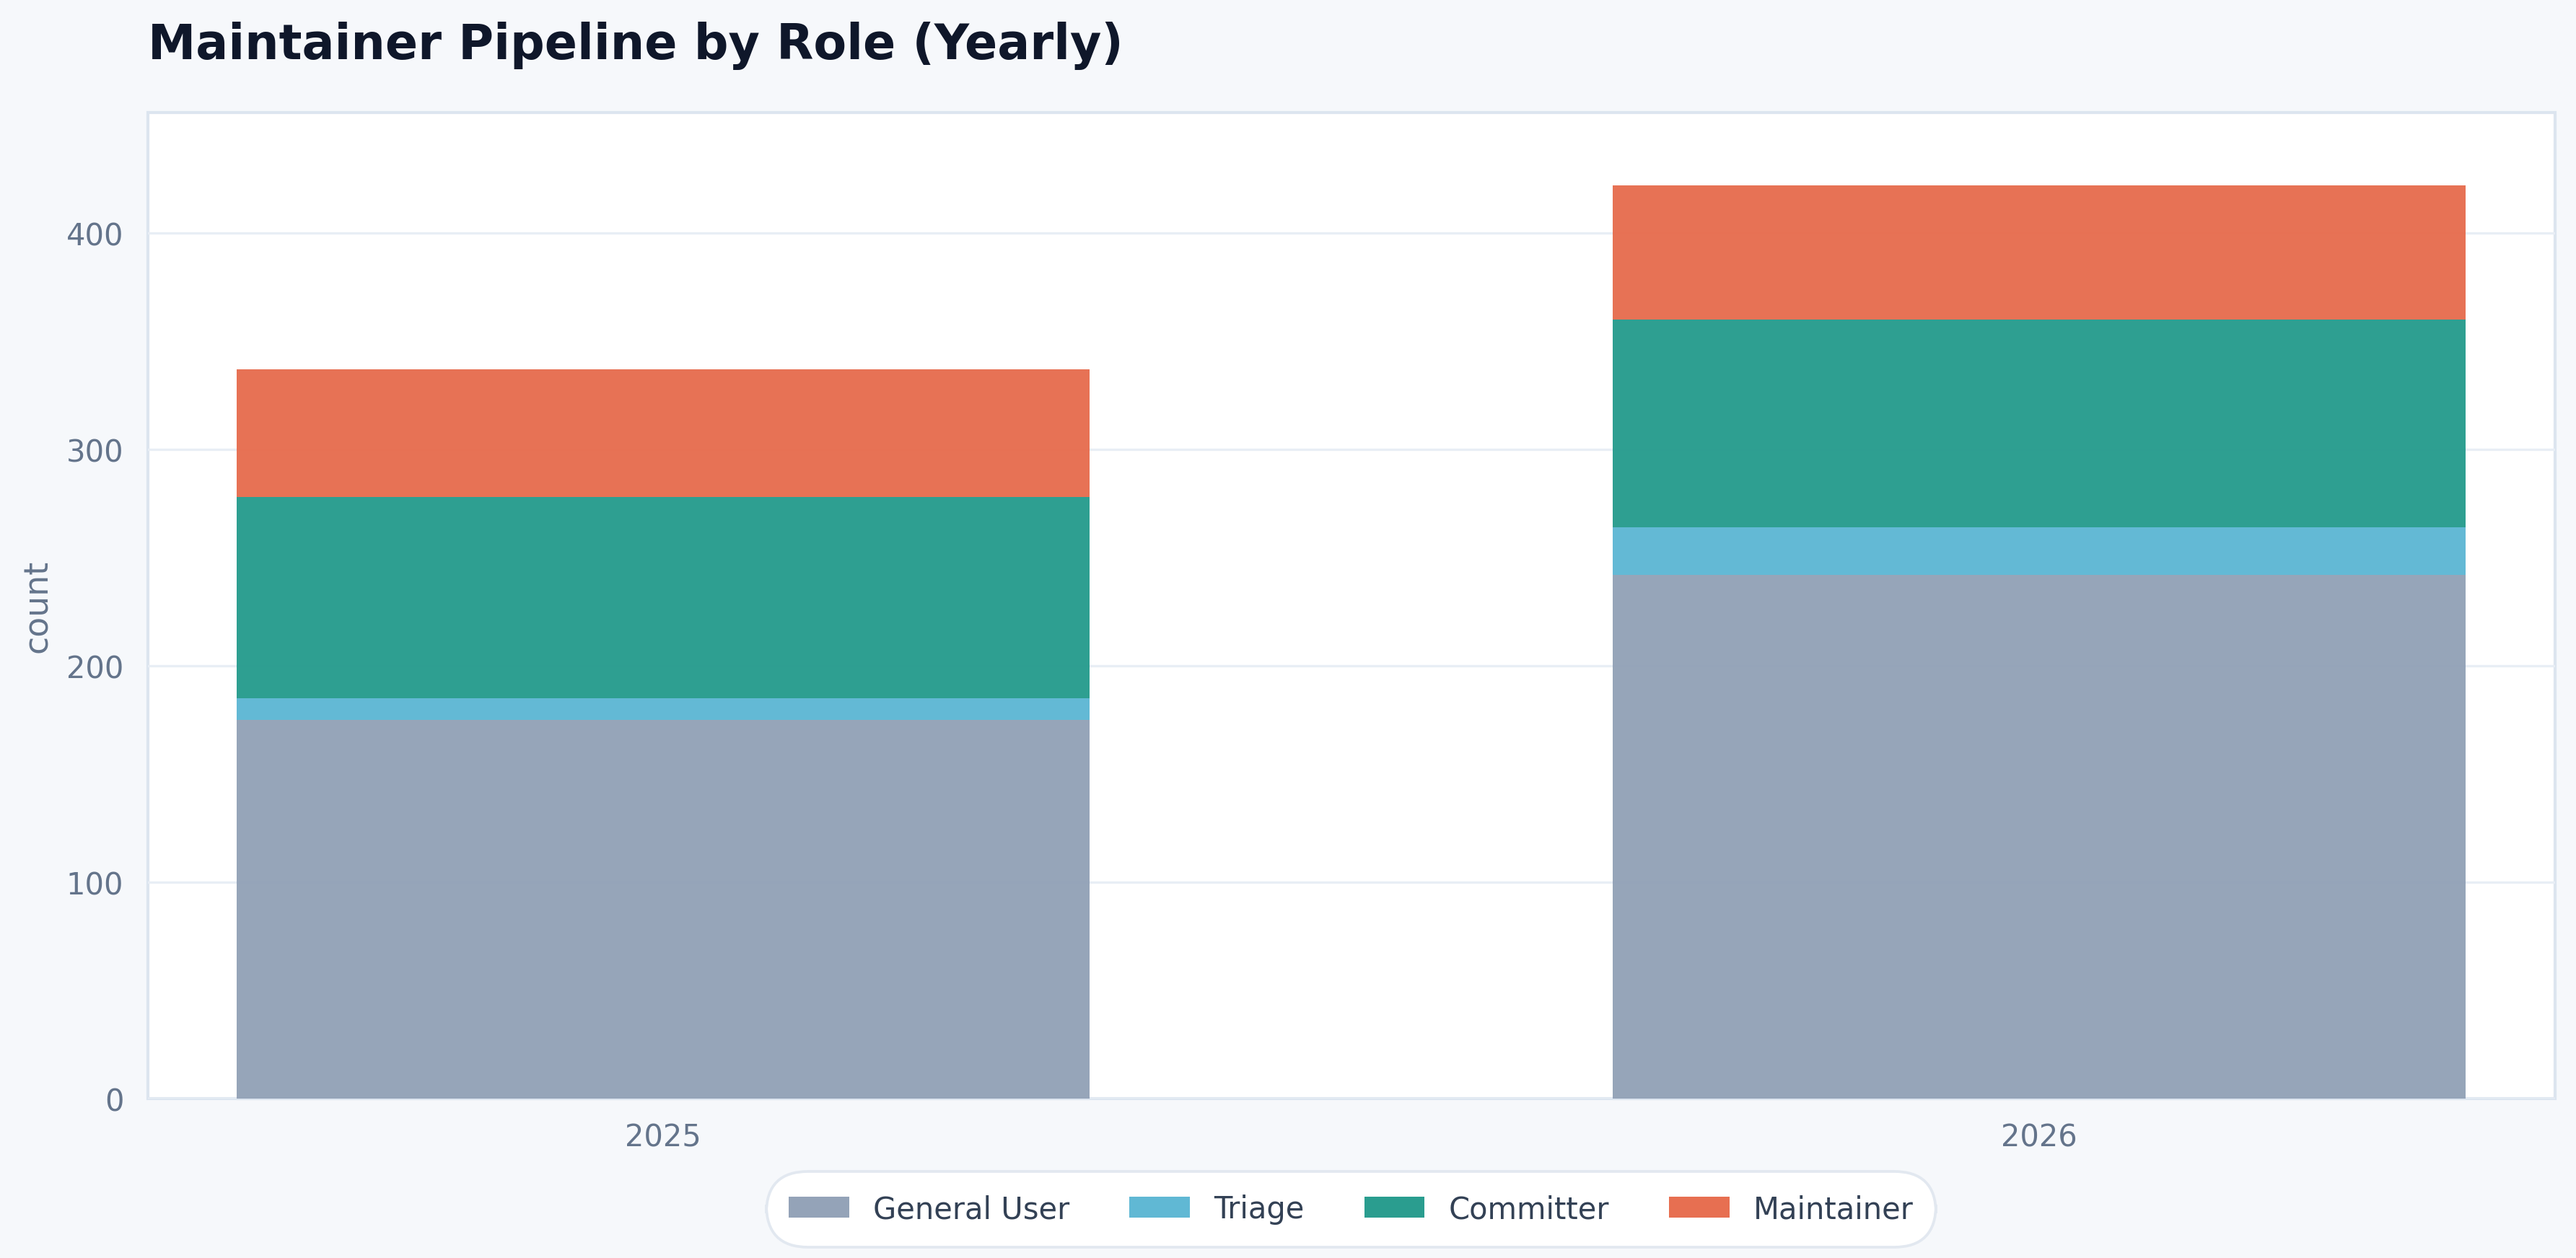
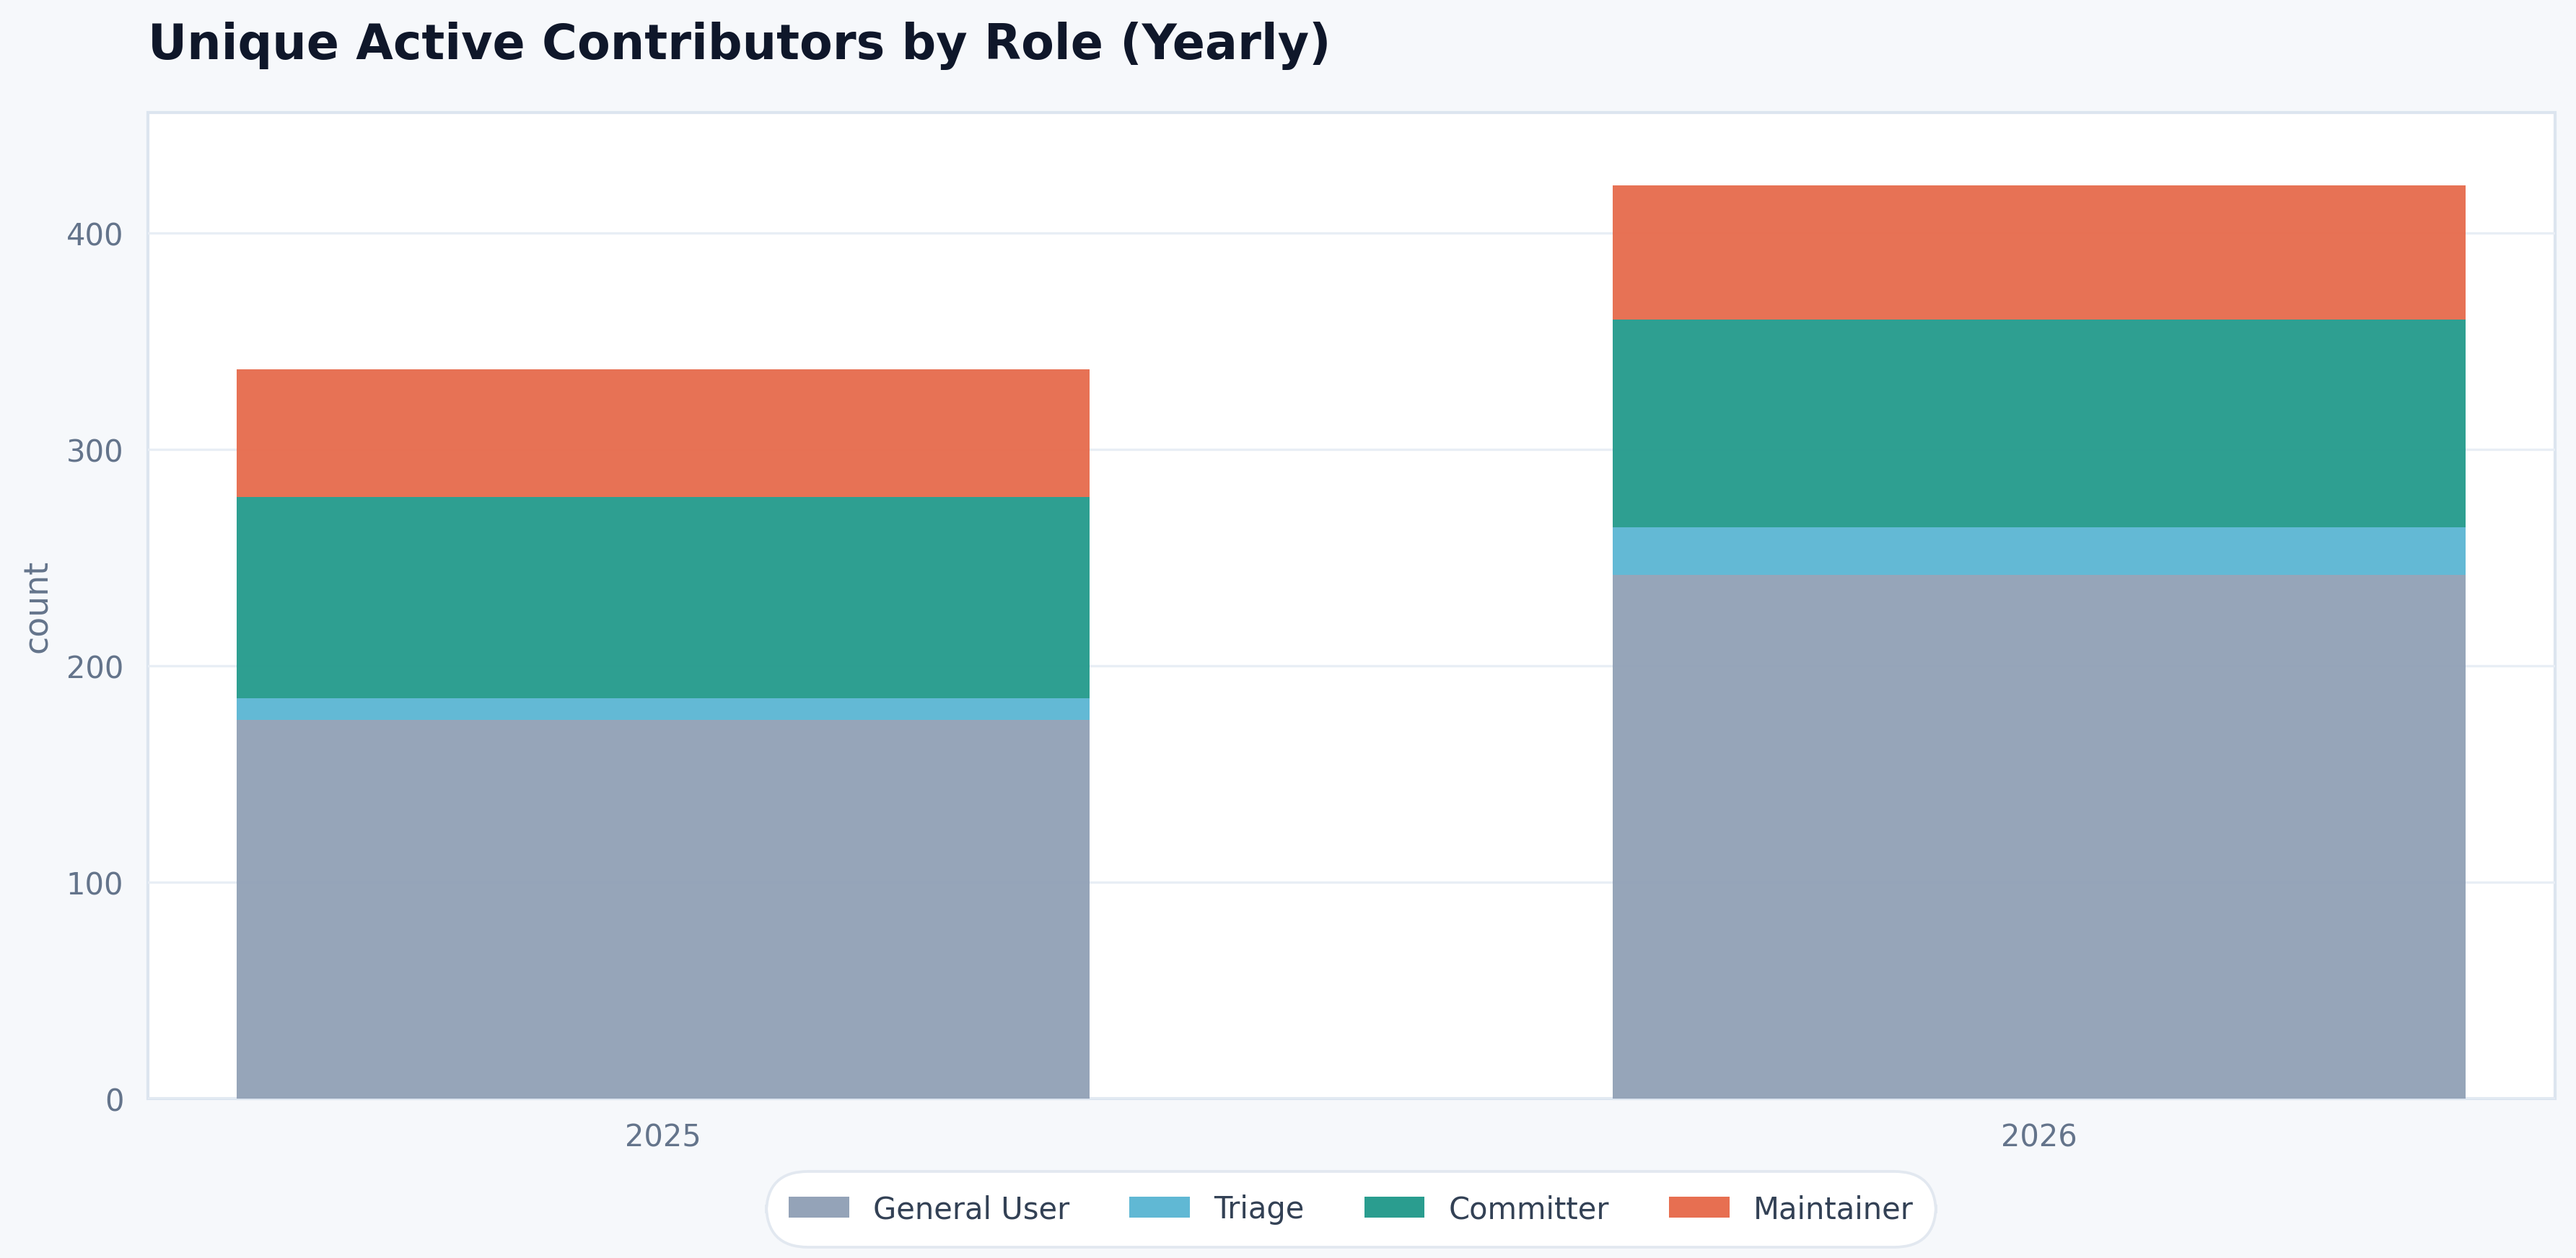
feat: add maintainer validation helpers and corresponding tests

Changed region(s): [[0.0622, 0.0, 0.5286, 0.0619]]

diff --git a/src/hiero_analytics/analysis/maintainer_validation.py b/src/hiero_analytics/analysis/maintainer_validation.py
@@ -1,0 +1,123 @@
+"""Validation helpers for comparing predicted pipeline roles against governance truth."""
+
+from __future__ import annotations
+
+import pandas as pd
+
+ROLE_COLUMNS = ["triage", "committer", "maintainer"]
+
+
+def build_actual_role_counts(
+    repo_role_lookup: dict[str, dict[str, str]],
+) -> pd.DataFrame:
+    """Count actual governance role holders per repository."""
+    rows = []
+    for repo, user_roles in repo_role_lookup.items():
+        counts = {role: 0 for role in ROLE_COLUMNS}
+        for role in user_roles.values():
+            if role in counts:
+                counts[role] += 1
+        rows.append({"repo": repo, **counts})
+
+    if not rows:
+        return pd.DataFrame(columns=["repo", *ROLE_COLUMNS])
+
+    actual = pd.DataFrame(rows).sort_values("repo").reset_index(drop=True)
+    return actual.astype({role: int for role in ROLE_COLUMNS})
+
+
+def build_role_count_comparison(
+    predicted_repo_df: pd.DataFrame,
+    actual_role_df: pd.DataFrame,
+) -> pd.DataFrame:
+    """Build a repo-level table of predicted vs actual role-holder counts."""
+    predicted = (
+        predicted_repo_df.reindex(columns=["repo", *ROLE_COLUMNS], fill_value=0)
+        .rename(columns={role: f"predicted_{role}" for role in ROLE_COLUMNS})
+        .copy()
+    )
+    actual = (
+        actual_role_df.reindex(columns=["repo", *ROLE_COLUMNS], fill_value=0)
+        .rename(columns={role: f"actual_{role}" for role in ROLE_COLUMNS})
+        .copy()
+    )
+
+    comparison = (
+        actual.merge(predicted, on="repo", how="outer")
+        .fillna(0)
+        .sort_values("repo")
+        .reset_index(drop=True)
+    )
+    ordered_columns = ["repo"]
+    for role in ROLE_COLUMNS:
+        ordered_columns.extend([f"predicted_{role}", f"actual_{role}"])
+
+    int_columns = [column for column in ordered_columns if column != "repo"]
+    return comparison[ordered_columns].astype({column: int for column in int_columns})
+
+
+def build_role_count_differences(comparison_df: pd.DataFrame) -> pd.DataFrame:
+    """Build a repo-level table of predicted-minus-actual role differences."""
+    if comparison_df.empty:
+        return pd.DataFrame(
+            columns=[
+                "repo",
+                "triage_difference",
+                "committer_difference",
+                "maintainer_difference",
+            ]
+        )
+
+    differences = pd.DataFrame(
+        {
+            "repo": comparison_df["repo"],
+            "triage_difference": comparison_df["predicted_triage"] - comparison_df["actual_triage"],
+            "committer_difference": comparison_df["predicted_committer"] - comparison_df["actual_committer"],
+            "maintainer_difference": comparison_df["predicted_maintainer"] - comparison_df["actual_maintainer"],
+        }
+    )
+    return differences.astype(
+        {
+            "triage_difference": int,
+            "committer_difference": int,
+            "maintainer_difference": int,
+        }
+    )
+
+
+def build_role_count_error_metrics(difference_df: pd.DataFrame) -> pd.DataFrame:
+    """Build squared-error and RMSE metrics for each repository."""
+    if difference_df.empty:
+        return pd.DataFrame(columns=["repo", "squared_error", "rmse"])
+
+    error_df = difference_df.copy()
+    diff_columns = [
+        "triage_difference",
+        "committer_difference",
+        "maintainer_difference",
+    ]
+    error_df["squared_error"] = sum(error_df[column] ** 2 for column in diff_columns)
+    error_df["rmse"] = (error_df["squared_error"] / len(diff_columns)) ** 0.5
+    return error_df[["repo", "squared_error", "rmse"]]
+
+
+def build_validation_summary(
+    error_df: pd.DataFrame,
+    distinct_role_holders: dict[str, int],
+) -> pd.DataFrame:
+    """Build a one-row summary table for maintainer-pipeline validation."""
+    total_rmse = float(error_df["rmse"].sum()) if not error_df.empty else 0.0
+    mean_repo_rmse = float(error_df["rmse"].mean()) if not error_df.empty else 0.0
+
+    return pd.DataFrame(
+        [
+            {
+                "repo_count": int(len(error_df)),
+                "total_rmse": total_rmse,
+                "mean_repo_rmse": mean_repo_rmse,
+                "actual_unique_triage_holders": int(distinct_role_holders.get("triage", 0)),
+                "actual_unique_committer_holders": int(distinct_role_holders.get("committer", 0)),
+                "actual_unique_maintainer_holders": int(distinct_role_holders.get("maintainer", 0)),
+            }
+        ]
+    )

diff --git a/tests/analysis/test_maintainer_validation.py b/tests/analysis/test_maintainer_validation.py
@@ -1,0 +1,128 @@
+"""Tests for maintainer-pipeline validation helpers."""
+
+from math import isclose, sqrt
+
+import pandas as pd
+
+from hiero_analytics.analysis.maintainer_validation import (
+    build_actual_role_counts,
+    build_role_count_comparison,
+    build_role_count_differences,
+    build_role_count_error_metrics,
+    build_validation_summary,
+)
+
+
+def test_build_actual_role_counts_counts_governance_roles_per_repo():
+    """Actual-count tables should reflect repo-level governance memberships."""
+    repo_role_lookup = {
+        "repo-a": {
+            "alice": "maintainer",
+            "bob": "committer",
+            "carol": "triage",
+        },
+        "repo-b": {
+            "dana": "committer",
+            "erin": "committer",
+        },
+    }
+
+    actual = build_actual_role_counts(repo_role_lookup)
+
+    row_a = actual.loc[actual["repo"] == "repo-a"].iloc[0]
+    row_b = actual.loc[actual["repo"] == "repo-b"].iloc[0]
+
+    assert row_a["triage"] == 1
+    assert row_a["committer"] == 1
+    assert row_a["maintainer"] == 1
+    assert row_b["triage"] == 0
+    assert row_b["committer"] == 2
+    assert row_b["maintainer"] == 0
+
+
+def test_validation_tables_compare_predicted_counts_to_actual_counts():
+    """Validation tables should align repos, differences, and per-repo RMSE."""
+    predicted = pd.DataFrame(
+        [
+            {
+                "repo": "repo-a",
+                "general_user": 10,
+                "triage": 1,
+                "committer": 3,
+                "maintainer": 0,
+            },
+            {
+                "repo": "repo-c",
+                "general_user": 4,
+                "triage": 0,
+                "committer": 1,
+                "maintainer": 1,
+            },
+        ]
+    )
+    actual = pd.DataFrame(
+        [
+            {
+                "repo": "repo-a",
+                "triage": 2,
+                "committer": 1,
+                "maintainer": 1,
+            },
+            {
+                "repo": "repo-b",
+                "triage": 1,
+                "committer": 0,
+                "maintainer": 0,
+            },
+        ]
+    )
+
+    comparison = build_role_count_comparison(predicted, actual)
+    differences = build_role_count_differences(comparison)
+    errors = build_role_count_error_metrics(differences)
+
+    repo_a = comparison.loc[comparison["repo"] == "repo-a"].iloc[0]
+    repo_b = comparison.loc[comparison["repo"] == "repo-b"].iloc[0]
+    repo_c = comparison.loc[comparison["repo"] == "repo-c"].iloc[0]
+
+    assert repo_a["predicted_triage"] == 1
+    assert repo_a["actual_triage"] == 2
+    assert repo_b["predicted_committer"] == 0
+    assert repo_b["actual_triage"] == 1
+    assert repo_c["predicted_maintainer"] == 1
+    assert repo_c["actual_maintainer"] == 0
+
+    repo_a_diff = differences.loc[differences["repo"] == "repo-a"].iloc[0]
+    assert repo_a_diff["triage_difference"] == -1
+    assert repo_a_diff["committer_difference"] == 2
+    assert repo_a_diff["maintainer_difference"] == -1
+
+    repo_a_error = errors.loc[errors["repo"] == "repo-a"].iloc[0]
+    assert repo_a_error["squared_error"] == 6
+    assert isclose(repo_a_error["rmse"], sqrt(2), rel_tol=1e-9)
+
+
+def test_build_validation_summary_reports_total_rmse_and_role_holder_counts():
+    """Validation summaries should expose total error and unique role holders."""
+    error_df = pd.DataFrame(
+        [
+            {"repo": "repo-a", "squared_error": 6, "rmse": sqrt(2)},
+            {"repo": "repo-b", "squared_error": 1, "rmse": sqrt(1 / 3)},
+        ]
+    )
+
+    summary = build_validation_summary(
+        error_df,
+        {
+            "triage": 2,
+            "committer": 5,
+            "maintainer": 3,
+        },
+    )
+
+    row = summary.iloc[0]
+    assert row["repo_count"] == 2
+    assert isclose(row["total_rmse"], sqrt(2) + sqrt(1 / 3), rel_tol=1e-9)
+    assert row["actual_unique_triage_holders"] == 2
+    assert row["actual_unique_committer_holders"] == 5
+    assert row["actual_unique_maintainer_holders"] == 3

diff --git a/src/hiero_analytics/run_maintainer_validation_org.py b/src/hiero_analytics/run_maintainer_validation_org.py
@@ -1,0 +1,59 @@
+"""Run maintainer-pipeline validation against governance truth for a GitHub organization."""
+
+from __future__ import annotations
+
+from hiero_analytics.analysis.maintainer_pipeline import (
+    activity_to_role_dataframe,
+    build_maintainer_repo_pipeline,
+)
+from hiero_analytics.analysis.maintainer_validation import (
+    build_actual_role_counts,
+    build_role_count_comparison,
+    build_role_count_differences,
+    build_role_count_error_metrics,
+    build_validation_summary,
+)
+from hiero_analytics.config.paths import ORG, ensure_org_dirs
+from hiero_analytics.data_sources.github_client import GitHubClient
+from hiero_analytics.data_sources.github_ingest import fetch_org_contributor_activity_graphql
+from hiero_analytics.data_sources.governance_config import (
+    build_repo_role_lookup,
+    count_distinct_role_holders_by_role,
+    fetch_governance_config,
+)
+from hiero_analytics.export.save import save_dataframe
+
+
+def main() -> None:
+    """Generate validation tables comparing predicted and actual repo role counts."""
+    org_data_dir, _ = ensure_org_dirs(ORG)
+
+    print(f"Running maintainer validation for org: {ORG}")
+
+    gov_config = fetch_governance_config()
+    repo_role_lookup = build_repo_role_lookup(gov_config)
+    actual_counts = build_actual_role_counts(repo_role_lookup)
+    distinct_role_holders = count_distinct_role_holders_by_role(repo_role_lookup)
+
+    client = GitHubClient()
+    records = fetch_org_contributor_activity_graphql(client, org=ORG)
+    stage_df = activity_to_role_dataframe(records, repo_role_lookup)
+    predicted_counts = build_maintainer_repo_pipeline(stage_df)
+
+    comparison_df = build_role_count_comparison(predicted_counts, actual_counts)
+    difference_df = build_role_count_differences(comparison_df)
+    error_df = build_role_count_error_metrics(difference_df)
+    summary_df = build_validation_summary(error_df, distinct_role_holders)
+
+    save_dataframe(actual_counts, org_data_dir / "maintainer_pipeline_truth_by_repo.csv")
+    save_dataframe(comparison_df, org_data_dir / "maintainer_pipeline_validation_comparison.csv")
+    save_dataframe(difference_df, org_data_dir / "maintainer_pipeline_validation_difference.csv")
+    save_dataframe(error_df, org_data_dir / "maintainer_pipeline_validation_error.csv")
+    save_dataframe(summary_df, org_data_dir / "maintainer_pipeline_validation_summary.csv")
+
+    total_rmse = summary_df.iloc[0]["total_rmse"]
+    print(f"Saved validation tables (total RMSE: {total_rmse:.3f})")
+
+
+if __name__ == "__main__":
+    main()

diff --git a/tests/data_sources/test_governance_config.py b/tests/data_sources/test_governance_config.py
@@ -1,6 +1,10 @@
 """Tests for governance-config role mapping helpers."""
 
-from hiero_analytics.data_sources.governance_config import build_repo_role_lookup, permission_to_role
+from hiero_analytics.data_sources.governance_config import (
+    build_repo_role_lookup,
+    count_distinct_role_holders_by_role,
+    permission_to_role,
+)
 
 
 def test_permission_to_role_maps_repo_permissions():
@@ -122,3 +126,22 @@ def test_build_repo_role_lookup_normalizes_usernames():
 
     assert repo_role_lookup["hiero-website"]["leadmaintainer"] == "committer"
     assert repo_role_lookup["hiero-website"]["exploreriii"] == "committer"
+
+
+def test_count_distinct_role_holders_by_role_counts_each_user_once_per_role():
+    """Distinct role-holder counts should deduplicate users within each role."""
+    repo_role_lookup = {
+        "repo-a": {
+            "alice": "maintainer",
+            "bob": "committer",
+        },
+        "repo-b": {
+            "alice": "committer",
+            "carol": "committer",
+        },
+    }
+
+    counts = count_distinct_role_holders_by_role(repo_role_lookup)
+
+    assert counts["maintainer"] == 1
+    assert counts["committer"] == 3

diff --git a/src/hiero_analytics/run_maintainer_pipeline_org.py b/src/hiero_analytics/run_maintainer_pipeline_org.py
@@ -50,7 +50,7 @@ def main() -> None:
             stack_cols=STAGE_COLUMNS,
             labels=STACK_LABELS,
             colors=MAINTAINER_PIPELINE_COLORS,
-            title="Maintainer Pipeline by Role (Yearly)",
+            title="Unique Active Contributors by Role (Yearly)",
             output_path=org_charts_dir / "maintainer_pipeline_yearly.png",
             annotate_totals=False,
         )
@@ -62,7 +62,7 @@ def main() -> None:
             stack_cols=STAGE_COLUMNS,
             labels=STACK_LABELS,
             colors=MAINTAINER_PIPELINE_COLORS,
-            title="Maintainer Pipeline by Role (by Repository)",
+            title="Unique Active Contributors by Role (by Repository)",
             output_path=org_charts_dir / "maintainer_pipeline_by_repo.png",
             rotate_x=45,
             annotate_totals=False,

diff --git a/src/hiero_analytics/data_sources/governance_config.py b/src/hiero_analytics/data_sources/governance_config.py
@@ -158,3 +158,15 @@ def summarize_role_counts(repo_role_lookup: dict[str, dict[str, str]]) -> dict[s
     for role in users.values():
         counts[role] += 1
     return dict(counts)
+
+
+def count_distinct_role_holders_by_role(
+    repo_role_lookup: dict[str, dict[str, str]],
+) -> dict[str, int]:
+    """Return distinct user counts for each role across all repositories."""
+    users_by_role: dict[str, set[str]] = defaultdict(set)
+    for repo_lookup in repo_role_lookup.values():
+        for user, role in repo_lookup.items():
+            users_by_role[role].add(user)
+
+    return {role: len(users) for role, users in users_by_role.items()}
